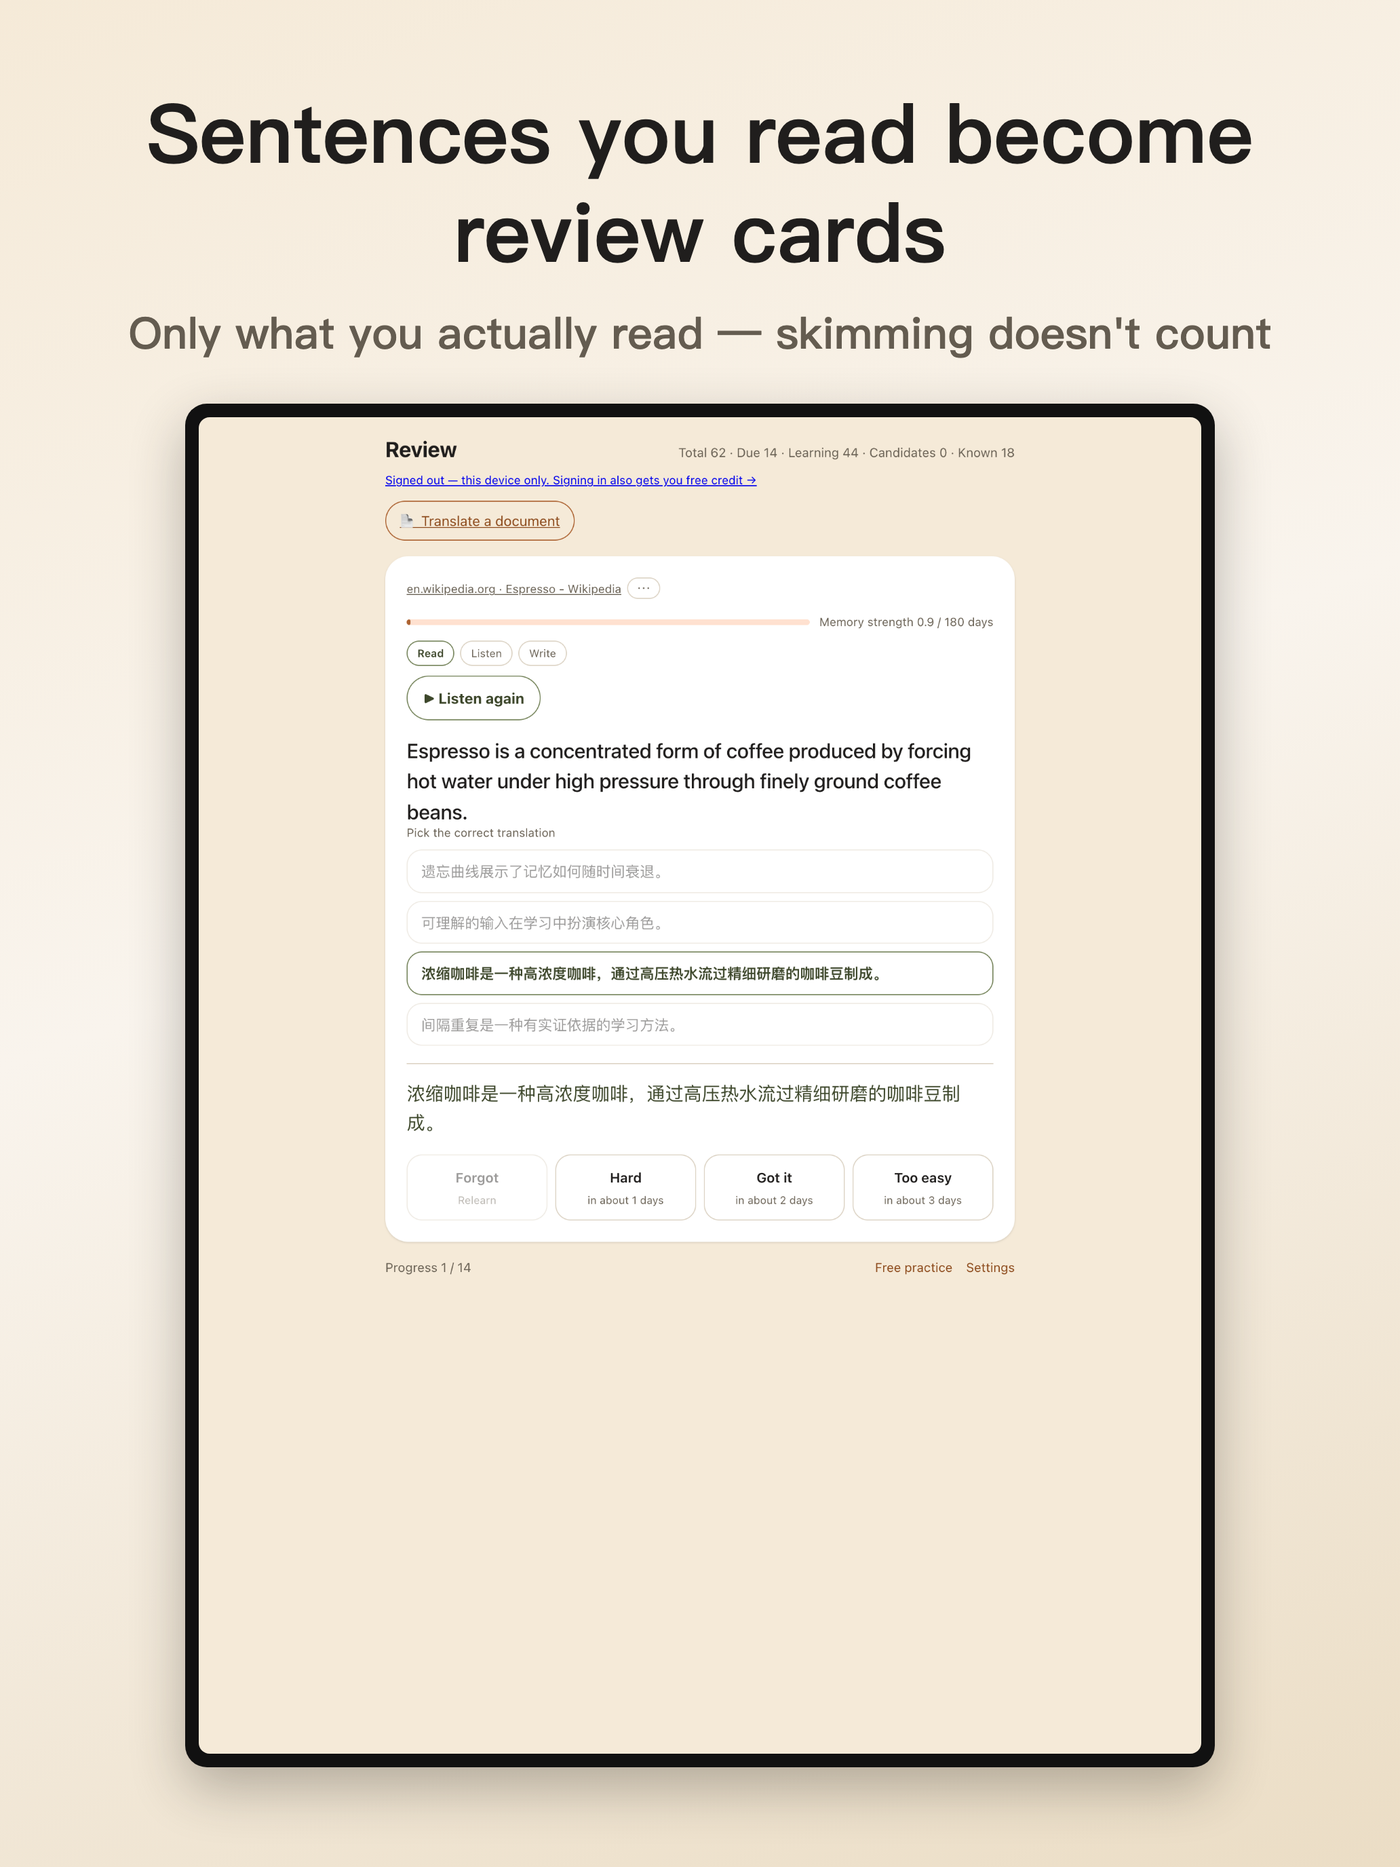
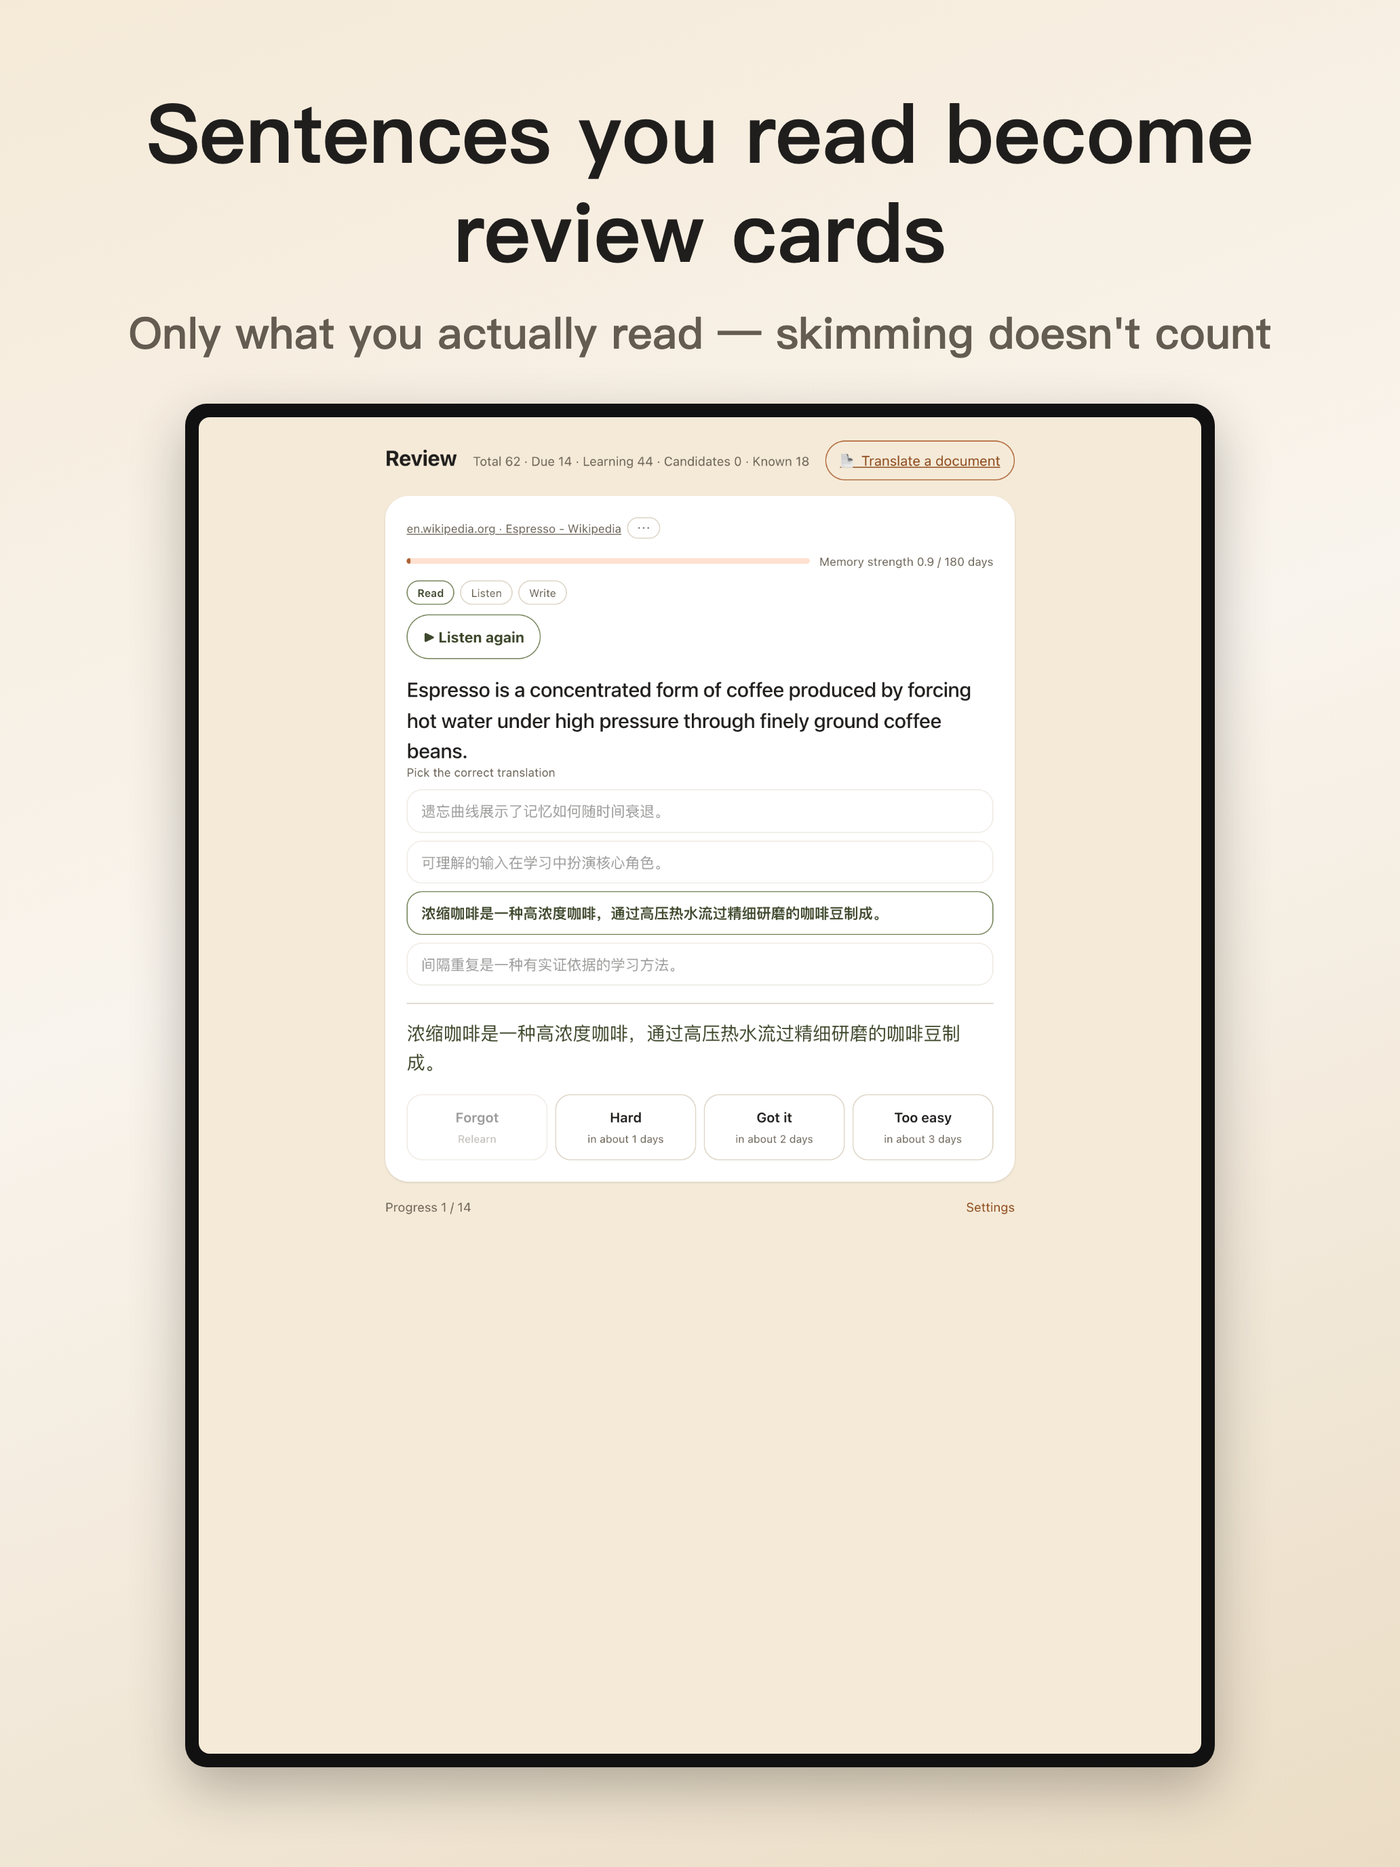
fix(store-assets): 撤 2.3.7 价格引用 —— App 集撤帧 6、全语种删免费额度文案
国际 iOS 1.17.0 被 Guideline 2.3.7 拒审（截图含价格引用，「free 也算」）。
用户裁定：免费额度不当卖点，description 里的额度引用一并删除。

- scripts/asc-media.js：新增第五张表 ORDER_APP_GLOBAL，App 集全部撤帧 6；
  ORDER_GLOBAL 原样留给扩展两店
- aso.md / aso-ios.md / aso-mac.md：13 语种同构改写（卖点句删额度整句、
  隐私句删中继分支），26 个替换模式 × 3 份 = 78 处，每模式恰好命中 1 次
- store-assets/src/capture.js：截图机种 staging 已登录会话（未登录横幅
  「登录领免费额度」是第二颗雷），藏 #practice-open（Free practice 链接）
  与 #sync-line（同步中永不落定）；App 一字不动
- 6 张出货图重渲（en-iphone-3/4/5、en-ipad-3/4/5）+ 5 张原料图重拍
- test/asc-media-plan.test.js：张数断言对齐新表（GL iOS en/zh 9、
  其余语种 8、iPad 8、Mac 9；中国版 8/7/7）

node test/run.js：2294 passed, 0 failed。

Changed region(s): [[0.2481, 0.2188, 0.7442, 0.6875]]

diff --git a/scripts/asc-media.js b/scripts/asc-media.js
@@ -6,6 +6,7 @@
 //   node scripts/asc-media.js --apply                # 真的替换（**对外动作**，会改线上商店页）
 //   node scripts/asc-media.js --apply --only cn-ios  # 只做一条线
 //   node scripts/asc-media.js --version 1.6.5        # 版本默认取 package.json，可覆盖
+//   node scripts/asc-media.js --screenshots-only     # 只换截图，预览片保留线上现有（修文案类拒审时用）
 //
 // --only 的取值就是 PLAN 里的 id：global-ios / global-mac / global-ios-zh /
 // global-mac-zh / cn-ios / cn-mac。
@@ -70,15 +71,21 @@ const c = (n) => path.join(ROOT, 'screenshots-cn', n);
 //   国际版 1 网页双语 · 8 实时字幕 · 9 对话听译 · 2 视频字幕 · 7 文档 · 3 复习卡 · 4 手机复习 · 5 跨设备 · 6 一键配置
 //   中国版 1 网页双语 · 6 实时字幕 · 7 对话听译 · 5 文档 · 3 复习卡 · 2 自带 Key · 4 学习设置
 // 以前写死「前 5 张 / 前 4 张」，于是 1.7 的一键配置帧、1.10 的文档帧渲染出来了却从没上过商店。
+// ORDER_GLOBAL 现在只喂扩展两店（amo-listing.js 的 AMO 预览图 + CWS 截图）。App 的
+// 截图集一律走 ORDER_APP_GLOBAL —— 2026-09-28 国际 iOS 1.17.0 被 Guideline 2.3.7 拒审
+// （截图里的价格引用，「free 也算」），帧 6 一键配置引导页整个从 App 商店图撤下；
+// 扩展两店不归苹果审，帧 6 保留。
 const ORDER_GLOBAL = [1, 8, 9, 2, 7, 3, 4, 5, 6];
+// App 截图集（iPhone 65 / iPad / 九份本地化）的共用表：ORDER_GLOBAL 去掉帧 6。
+const ORDER_APP_GLOBAL = [1, 8, 9, 2, 7, 3, 4, 5];
 // iPhone 那一集多一帧：10 = 系统翻译（1.14 的主角），排在第 2 位。
 // **只有 iPhone 集有它** —— iPad 没有原料（没有 iPad 硬件，模拟器里没有那个扩展点），
-// Mac 根本没有这个功能。10 张正好是 ASC 每组的上限。
-const ORDER_IPHONE = [1, 10, 8, 9, 2, 7, 3, 4, 5, 6];
+// Mac 根本没有这个功能。
+const ORDER_IPHONE = [1, 10, 8, 9, 2, 7, 3, 4, 5];
 // Mac 那一集同样多一帧：11 = 快速翻译（1.13.1 的主角），排在第 2 位 —— 与 iPhone 的
 // 帧 10 镜像对称。**只有 Mac 集有它**：iPhone / iPad 上没有这个功能，扩展两店不放
-// App 独有的东西。10 张同样正好是 ASC 每组的上限。
-const ORDER_MAC = [1, 11, 8, 9, 2, 7, 3, 4, 5, 6];
+// App 独有的东西。
+const ORDER_MAC = [1, 11, 8, 9, 2, 7, 3, 4, 5];
 const ORDER_CN = [1, 6, 7, 5, 3, 2, 4];
 // 中国版的 iPhone 集也多一帧：8 = 系统翻译，排在第 2 位 —— 与国际版 ORDER_IPHONE 的
 // 帧 10 同一个位置、同一条理由。**只有 iPhone 集有它**：iPad 没有原料（没有 iPad 硬件），
@@ -99,7 +106,7 @@ const PLAN = [
     id: 'global-ios', bundleId: 'com.belliedmonkeytranslator', platform: 'IOS', locale: 'en-US',
     screenshots: {
       APP_IPHONE_65: frames(ORDER_IPHONE, (i) => g(`en-iphone-${i}.png`)),
-      APP_IPAD_PRO_3GEN_129: frames(ORDER_GLOBAL, (i) => g(`en-ipad-${i}.png`)),
+      APP_IPAD_PRO_3GEN_129: frames(ORDER_APP_GLOBAL, (i) => g(`en-ipad-${i}.png`)),
     },
     previews: { IPHONE_65: v('en-ios.mp4') },
   },
@@ -114,7 +121,7 @@ const PLAN = [
     id: 'global-ios-zh', bundleId: 'com.belliedmonkeytranslator', platform: 'IOS', locale: 'zh-Hans',
     screenshots: {
       APP_IPHONE_65: frames(ORDER_IPHONE, (i) => g(`zh-iphone-${i}.png`)),
-      APP_IPAD_PRO_3GEN_129: frames(ORDER_GLOBAL, (i) => g(`zh-ipad-${i}.png`)),
+      APP_IPAD_PRO_3GEN_129: frames(ORDER_APP_GLOBAL, (i) => g(`zh-ipad-${i}.png`)),
     },
     previews: { IPHONE_65: v('zh-ios.mp4') },
   },
@@ -133,8 +140,8 @@ const PLAN = [
   {
     id: 'global-ios-ru', bundleId: 'com.belliedmonkeytranslator', platform: 'IOS', locale: 'ru',
     screenshots: {
-      APP_IPHONE_65: frames(ORDER_GLOBAL, (i) => g(`en-iphone-${i}.png`)),
-      APP_IPAD_PRO_3GEN_129: frames(ORDER_GLOBAL, (i) => g(`en-ipad-${i}.png`)),
+      APP_IPHONE_65: frames(ORDER_APP_GLOBAL, (i) => g(`en-iphone-${i}.png`)),
+      APP_IPAD_PRO_3GEN_129: frames(ORDER_APP_GLOBAL, (i) => g(`en-ipad-${i}.png`)),
     },
     previews: {},
   },
@@ -146,8 +153,8 @@ const PLAN = [
   {
     id: 'global-ios-dede', bundleId: 'com.belliedmonkeytranslator', platform: 'IOS', locale: 'de-DE',
     screenshots: {
-      APP_IPHONE_65: frames(ORDER_GLOBAL, (i) => g(`en-iphone-${i}.png`)),
-      APP_IPAD_PRO_3GEN_129: frames(ORDER_GLOBAL, (i) => g(`en-ipad-${i}.png`)),
+      APP_IPHONE_65: frames(ORDER_APP_GLOBAL, (i) => g(`en-iphone-${i}.png`)),
+      APP_IPAD_PRO_3GEN_129: frames(ORDER_APP_GLOBAL, (i) => g(`en-ipad-${i}.png`)),
     },
     previews: {},
   },
@@ -159,8 +166,8 @@ const PLAN = [
   {
     id: 'global-ios-ja', bundleId: 'com.belliedmonkeytranslator', platform: 'IOS', locale: 'ja',
     screenshots: {
-      APP_IPHONE_65: frames(ORDER_GLOBAL, (i) => g(`en-iphone-${i}.png`)),
-      APP_IPAD_PRO_3GEN_129: frames(ORDER_GLOBAL, (i) => g(`en-ipad-${i}.png`)),
+      APP_IPHONE_65: frames(ORDER_APP_GLOBAL, (i) => g(`en-iphone-${i}.png`)),
+      APP_IPAD_PRO_3GEN_129: frames(ORDER_APP_GLOBAL, (i) => g(`en-ipad-${i}.png`)),
     },
     previews: {},
   },
@@ -172,8 +179,8 @@ const PLAN = [
   {
     id: 'global-ios-frfr', bundleId: 'com.belliedmonkeytranslator', platform: 'IOS', locale: 'fr-FR',
     screenshots: {
-      APP_IPHONE_65: frames(ORDER_GLOBAL, (i) => g(`en-iphone-${i}.png`)),
-      APP_IPAD_PRO_3GEN_129: frames(ORDER_GLOBAL, (i) => g(`en-ipad-${i}.png`)),
+      APP_IPHONE_65: frames(ORDER_APP_GLOBAL, (i) => g(`en-iphone-${i}.png`)),
+      APP_IPAD_PRO_3GEN_129: frames(ORDER_APP_GLOBAL, (i) => g(`en-ipad-${i}.png`)),
     },
     previews: {},
   },
@@ -185,8 +192,8 @@ const PLAN = [
   {
     id: 'global-ios-ko', bundleId: 'com.belliedmonkeytranslator', platform: 'IOS', locale: 'ko',
     screenshots: {
-      APP_IPHONE_65: frames(ORDER_GLOBAL, (i) => g(`en-iphone-${i}.png`)),
-      APP_IPAD_PRO_3GEN_129: frames(ORDER_GLOBAL, (i) => g(`en-ipad-${i}.png`)),
+      APP_IPHONE_65: frames(ORDER_APP_GLOBAL, (i) => g(`en-iphone-${i}.png`)),
+      APP_IPAD_PRO_3GEN_129: frames(ORDER_APP_GLOBAL, (i) => g(`en-ipad-${i}.png`)),
     },
     previews: {},
   },
@@ -198,8 +205,8 @@ const PLAN = [
   {
     id: 'global-ios-ptbr', bundleId: 'com.belliedmonkeytranslator', platform: 'IOS', locale: 'pt-BR',
     screenshots: {
-      APP_IPHONE_65: frames(ORDER_GLOBAL, (i) => g(`en-iphone-${i}.png`)),
-      APP_IPAD_PRO_3GEN_129: frames(ORDER_GLOBAL, (i) => g(`en-ipad-${i}.png`)),
+      APP_IPHONE_65: frames(ORDER_APP_GLOBAL, (i) => g(`en-iphone-${i}.png`)),
+      APP_IPAD_PRO_3GEN_129: frames(ORDER_APP_GLOBAL, (i) => g(`en-ipad-${i}.png`)),
     },
     previews: {},
   },
@@ -211,8 +218,8 @@ const PLAN = [
   {
     id: 'global-ios-eses', bundleId: 'com.belliedmonkeytranslator', platform: 'IOS', locale: 'es-ES',
     screenshots: {
-      APP_IPHONE_65: frames(ORDER_GLOBAL, (i) => g(`en-iphone-${i}.png`)),
-      APP_IPAD_PRO_3GEN_129: frames(ORDER_GLOBAL, (i) => g(`en-ipad-${i}.png`)),
+      APP_IPHONE_65: frames(ORDER_APP_GLOBAL, (i) => g(`en-iphone-${i}.png`)),
+      APP_IPAD_PRO_3GEN_129: frames(ORDER_APP_GLOBAL, (i) => g(`en-ipad-${i}.png`)),
     },
     previews: {},
   },
@@ -224,8 +231,8 @@ const PLAN = [
   {
     id: 'global-ios-arsa', bundleId: 'com.belliedmonkeytranslator', platform: 'IOS', locale: 'ar-SA',
     screenshots: {
-      APP_IPHONE_65: frames(ORDER_GLOBAL, (i) => g(`en-iphone-${i}.png`)),
-      APP_IPAD_PRO_3GEN_129: frames(ORDER_GLOBAL, (i) => g(`en-ipad-${i}.png`)),
+      APP_IPHONE_65: frames(ORDER_APP_GLOBAL, (i) => g(`en-iphone-${i}.png`)),
+      APP_IPAD_PRO_3GEN_129: frames(ORDER_APP_GLOBAL, (i) => g(`en-ipad-${i}.png`)),
     },
     previews: {},
   },
@@ -238,8 +245,8 @@ const PLAN = [
   {
     id: 'global-ios-it', bundleId: 'com.belliedmonkeytranslator', platform: 'IOS', locale: 'it',
     screenshots: {
-      APP_IPHONE_65: frames(ORDER_GLOBAL, (i) => g(`en-iphone-${i}.png`)),
-      APP_IPAD_PRO_3GEN_129: frames(ORDER_GLOBAL, (i) => g(`en-ipad-${i}.png`)),
+      APP_IPHONE_65: frames(ORDER_APP_GLOBAL, (i) => g(`en-iphone-${i}.png`)),
+      APP_IPAD_PRO_3GEN_129: frames(ORDER_APP_GLOBAL, (i) => g(`en-ipad-${i}.png`)),
     },
     previews: {},
   },
@@ -251,8 +258,8 @@ const PLAN = [
   {
     id: 'global-ios-tr', bundleId: 'com.belliedmonkeytranslator', platform: 'IOS', locale: 'tr',
     screenshots: {
-      APP_IPHONE_65: frames(ORDER_GLOBAL, (i) => g(`en-iphone-${i}.png`)),
-      APP_IPAD_PRO_3GEN_129: frames(ORDER_GLOBAL, (i) => g(`en-ipad-${i}.png`)),
+      APP_IPHONE_65: frames(ORDER_APP_GLOBAL, (i) => g(`en-iphone-${i}.png`)),
+      APP_IPAD_PRO_3GEN_129: frames(ORDER_APP_GLOBAL, (i) => g(`en-ipad-${i}.png`)),
     },
     previews: {},
   },
@@ -264,8 +271,8 @@ const PLAN = [
   {
     id: 'global-ios-vi', bundleId: 'com.belliedmonkeytranslator', platform: 'IOS', locale: 'vi',
     screenshots: {
-      APP_IPHONE_65: frames(ORDER_GLOBAL, (i) => g(`en-iphone-${i}.png`)),
-      APP_IPAD_PRO_3GEN_129: frames(ORDER_GLOBAL, (i) => g(`en-ipad-${i}.png`)),
+      APP_IPHONE_65: frames(ORDER_APP_GLOBAL, (i) => g(`en-iphone-${i}.png`)),
+      APP_IPAD_PRO_3GEN_129: frames(ORDER_APP_GLOBAL, (i) => g(`en-ipad-${i}.png`)),
     },
     previews: {},
   },
@@ -277,8 +284,8 @@ const PLAN = [
   {
     id: 'global-ios-pl', bundleId: 'com.belliedmonkeytranslator', platform: 'IOS', locale: 'pl',
     screenshots: {
-      APP_IPHONE_65: frames(ORDER_GLOBAL, (i) => g(`en-iphone-${i}.png`)),
-      APP_IPAD_PRO_3GEN_129: frames(ORDER_GLOBAL, (i) => g(`en-ipad-${i}.png`)),
+      APP_IPHONE_65: frames(ORDER_APP_GLOBAL, (i) => g(`en-iphone-${i}.png`)),
+      APP_IPAD_PRO_3GEN_129: frames(ORDER_APP_GLOBAL, (i) => g(`en-ipad-${i}.png`)),
     },
     previews: {},
   },
@@ -290,8 +297,8 @@ const PLAN = [
   {
     id: 'global-ios-zhhant', bundleId: 'com.belliedmonkeytranslator', platform: 'IOS', locale: 'zh-Hant',
     screenshots: {
-      APP_IPHONE_65: frames(ORDER_GLOBAL, (i) => g(`zh-iphone-${i}.png`)),
-      APP_IPAD_PRO_3GEN_129: frames(ORDER_GLOBAL, (i) => g(`zh-ipad-${i}.png`)),
+      APP_IPHONE_65: frames(ORDER_APP_GLOBAL, (i) => g(`zh-iphone-${i}.png`)),
+      APP_IPAD_PRO_3GEN_129: frames(ORDER_APP_GLOBAL, (i) => g(`zh-ipad-${i}.png`)),
     },
     previews: { IPHONE_65: v('zh-ios.mp4') },
   },
@@ -380,7 +387,10 @@ async function findVersionLocalization(bundleId, platform, locale) {
   // 在审中（WAITING_FOR_REVIEW / IN_REVIEW）不行：2026-08-22 实测
   // `POST /appScreenshotSets` 会被 409「Can't Create Screenshot Set while In Review」
   // 拒掉 —— 拒得很干净，状态不受影响，所以那条路是安全的死路，不是隐患。
-  const EDITABLE = ['PREPARE_FOR_SUBMISSION', 'DEVELOPER_REJECTED'];
+  // REJECTED（苹果拒审）也在这里改：2.3.7 拒审后的标准闭环就是在**同一个版本**上换图、
+  // 改文案、回复 Resolution Center、重提 —— 回复挂在这个版本的会话上，版本不可编辑就没法修
+  // （2026-09-28 国际 iOS 1.17.0 实走通）。要防的只是白名单外的在审/上架状态。
+  const EDITABLE = ['PREPARE_FOR_SUBMISSION', 'DEVELOPER_REJECTED', 'REJECTED'];
   if (!EDITABLE.includes(v.attributes.appStoreState)) {
     throw new Error(`${bundleId} ${platform} ${VERSION} 状态是 ${v.attributes.appStoreState}`
       + ' —— 不动它（在审期间 Apple 不接受新建截图集）');
@@ -427,6 +437,9 @@ if (require.main === module) (async () => {
   // --previews-only：只挂预览视频，跳过截图段。截图段一挂就整条抛出，预览段根本轮不到
   // （2026-09-16：苹果 `POST /appScreenshots` 连续 500 数小时，而 `POST /appPreviews` 是另一个端点）
   const previewsOnly = argv.includes('--previews-only');
+  // --screenshots-only：跳过预览片替换（预览逻辑是「文件在就重传」，而修 metadata 类拒审时
+  // 预览片没变 —— 2026-09-28 2.3.7 只点截图，视频不该跟着重传一遍）。
+  const screenshotsOnly = argv.includes('--screenshots-only');
   const onlyIdx = argv.indexOf('--only');
   const only = onlyIdx >= 0 ? argv[onlyIdx + 1] : null;
   VERSION = resolveVersion(argv);
@@ -486,7 +499,7 @@ if (require.main === module) (async () => {
     // ── 预览片 ──
     const psets = await api('GET', `/appStoreVersionLocalizations/${locId}/appPreviewSets?limit=20`
       + '&fields[appPreviewSets]=previewType');
-    for (const [previewType, file] of Object.entries(line.previews || {})) {
+    for (const [previewType, file] of Object.entries(screenshotsOnly ? {} : (line.previews || {}))) {
       // 预览视频要重录（assets.md 的 cap 配方），不是每次发版都重做；文件不在就保留线上那份，
       // 只换截图 —— 但要说出来，别让「没换」看起来像「换了」（2026-09-08，1.8.0 只换图）。
       if (!fs.existsSync(file)) { console.log(`  ⚠ 预览 ${previewType}: 本地没有 ${file}，保留线上现有预览不动`); continue; }

diff --git a/store-assets/src/capture.js b/store-assets/src/capture.js
@@ -132,7 +132,43 @@ const sleep = (ms) => new Promise((r) => setTimeout(r, ms));
       localStorage.setItem('mt:provider', JSON.stringify('google'));
       // 不写 apiKey：免费通道不需要，商店图也不该出现任何像密钥的东西。
       localStorage.setItem('mt:ttsMode', JSON.stringify('assist'));
+      // staging 已登录（2026-09-28）：未登录态会在复习页画「未登录…登录还能领一份
+      // 免费额度 →」横幅（review.js case 'signed_out'），被苹果 2.3.7 判为截图价格
+      // 引用（「free 也算」）。真实用户登录后这行本来就不渲染，这里种一个只存在于
+      // 截图机里的会话（expires 远期、userId 留空 ⇒ renderGoApp 的「在 App 里继续
+      // 复习」按钮也不出）—— 是把截图对齐到更典型的真实状态，不是造假。
+      localStorage.setItem('mt:learnAuth', JSON.stringify({
+        accessToken: 'staging-screenshot-not-a-real-token',
+        refreshToken: null,
+        expiresAt: Date.now() + 10 * 365 * 86400 * 1000,
+        email: null, phone: null, userId: null,
+        backend: 'https://staging.invalid',
+      }));
+      // staging：藏掉两处不需要上商店图的元素。#practice-open 是页脚的
+      // 「Free practice」链接（review.html，中文原文「自由练习」）—— 英文审核员只看
+      // 得到 "Free"，配上 2.3.7 的「free 也算价格引用」就是第二颗雷；#sync-line 是
+      // sync 状态行，截图会停在「与服务器同步中…」（网络被下面的桩按住，永不落定），
+      // 而真实用户常态看到的是「同步完成 · 时间」——都不上图为净。App 一字不动。
+      const st = document.createElement('style');
+      st.textContent = '#practice-open,#sync-line{display:none!important}';
+      // document_start 时 head 可能还没解析出来（null 时 appendChild 会抛，被本块
+      // 的 catch 吞掉就成了静默失效——2026-09-28 实拍抓到过一次），挂 ready 兜底。
+      const putSt = () => (document.head || document.documentElement).appendChild(st);
+      if (document.head || document.documentElement) { try { putSt(); } catch (_) {} }
+      else document.addEventListener('DOMContentLoaded', putSt, { once: true });
     } catch (_) {}
+    // staging：凡是不发往本地 http 服务的请求一律永不应答。sync 的 autoSync 拿上面
+    // 那个假会话跑时不能真打 api.belliedmonkey.com —— 401 判死会把「已登录」打回
+    // 「未登录」，拍摄窗口就成了一场竞态；翻译 backfill 的外联也不该决定截图成败。
+    (() => {
+      const orig = window.fetch;
+      window.fetch = function (input, init) {
+        const u = typeof input === 'string' ? input : (input && input.url) || '';
+        let host = ''; try { host = new URL(u, location.href).host; } catch (_) {}
+        if (host !== '127.0.0.1' && host !== 'localhost') return new Promise(() => {});
+        return orig.apply(this, arguments);
+      };
+    })();
   ` }, sessionId);
   const ev = async (expression) => {
     const r = await cdp.send('Runtime.evaluate', { expression, awaitPromise: true, returnByValue: true }, sessionId);
@@ -152,7 +188,8 @@ const sleep = (ms) => new Promise((r) => setTimeout(r, ms));
     for (const tier of TIERS) {
       await cdp.send('Emulation.setDeviceMetricsOverride', METRICS[tier], sessionId);
       const P = `${lang}-${tier}-`;
-      // ── stats：复习页首屏（计数 header + 首卡）。不登录，页面显示「未登录，仅本机数据」──
+      // ── stats：复习页首屏（计数 header + 首卡）。staging 已登录（见注入段），
+      //    sync 状态区不渲染任何横幅 ──
       await go(BASE + '/learn/review.html'); await sleep(800);
       await ev(DISMISS); await sleep(500); await ev('window.scrollTo(0, 0)');
       await shot(P + 'stats.png');
